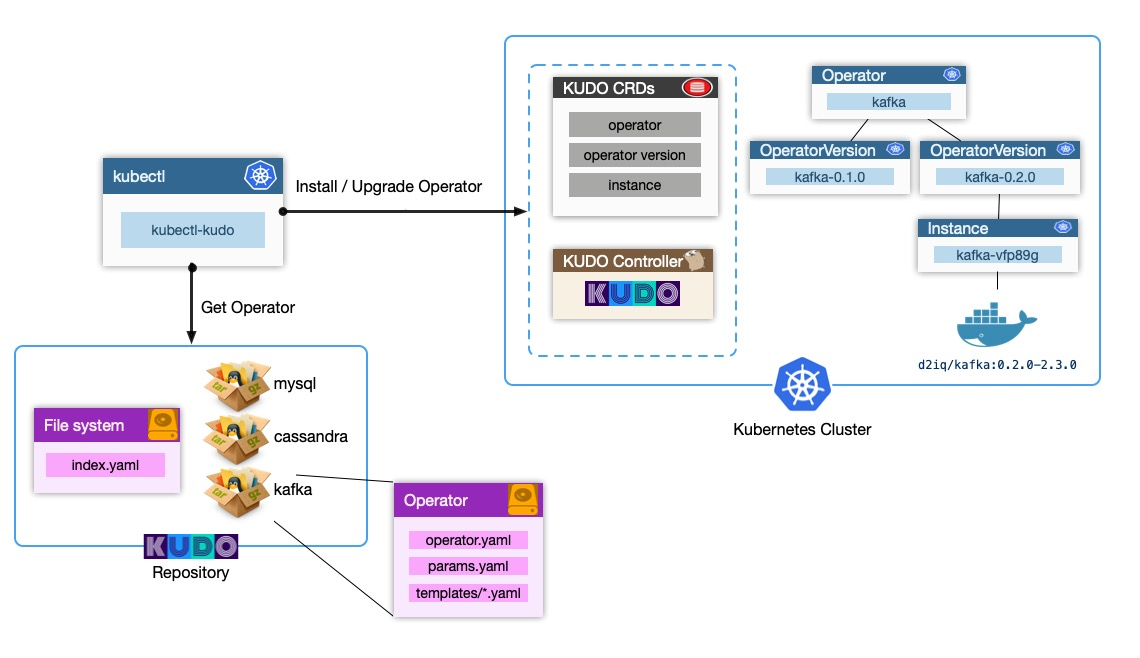
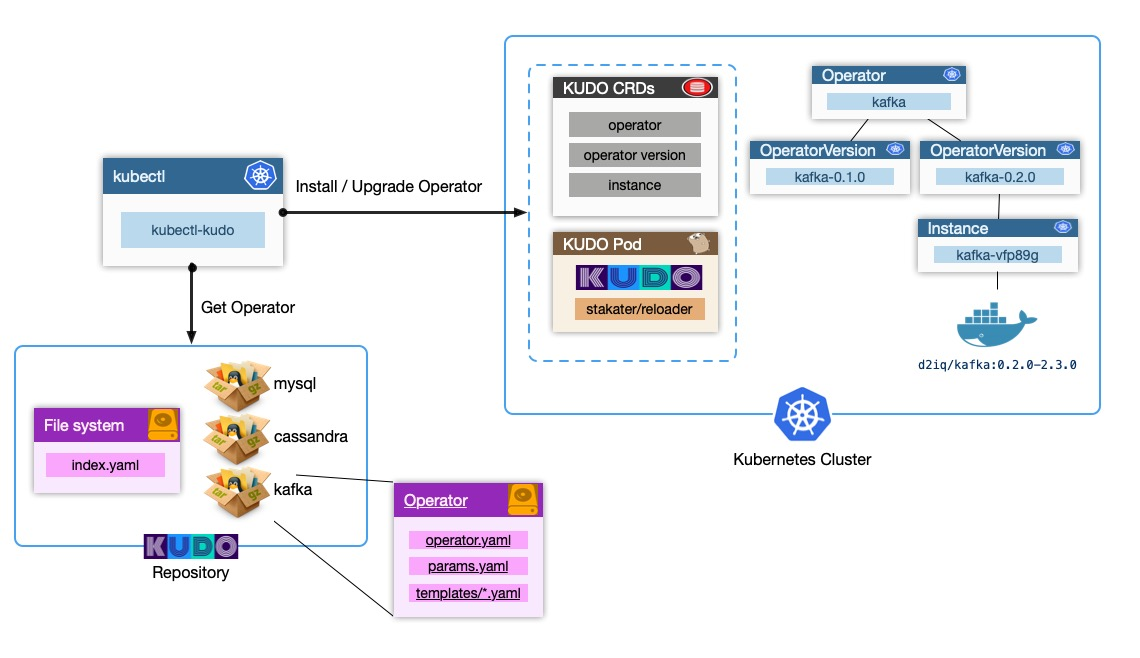
adding Stakater to arch details and diagram

diff --git a/content/docs/architecture.md b/content/docs/architecture.md
@@ -24,7 +24,7 @@ KUDO is built to help Dev/Ops teams manage day 2 operations of services on Kuber
 * Repository development and management
 * Interacting with the deployed KUDO controller via KUDO CRDs
   * Installing and uninstalling operator CRDs and operators
-  * Starting operator plans and querying their status 
+  * Starting operator plans and querying their status
   * Upgrading, updating, backing up and restoring operators
 
 **KUDO CRDs** extend the Kubernetes API to support KUDO
@@ -35,6 +35,8 @@ KUDO is built to help Dev/Ops teams manage day 2 operations of services on Kuber
 * Creating KUDO operators and invoking operator plans
 
 Read about KUDO's [concepts](concepts.md) for more details around operators, operator versions and instance CRDs.
+
+**Stakater/Reloader Controller** is a [controller](https://github.com/stakater/Reloader) in the KUDO pod responsible for watching for changes in ConfigMap and Secrets and do rolling upgrades on operators managed by the KUDO controller. More details on the [Stakater](https://www.stakater.com/projects-overview.html) project site.
 
 **KUDO Repository** provides significant convenience but is not strictly required. It provides an index of operators along with URLs they may be retrieved from. Read about the [operator repository](repository.md) for more details on repositories and operator layout.
 
